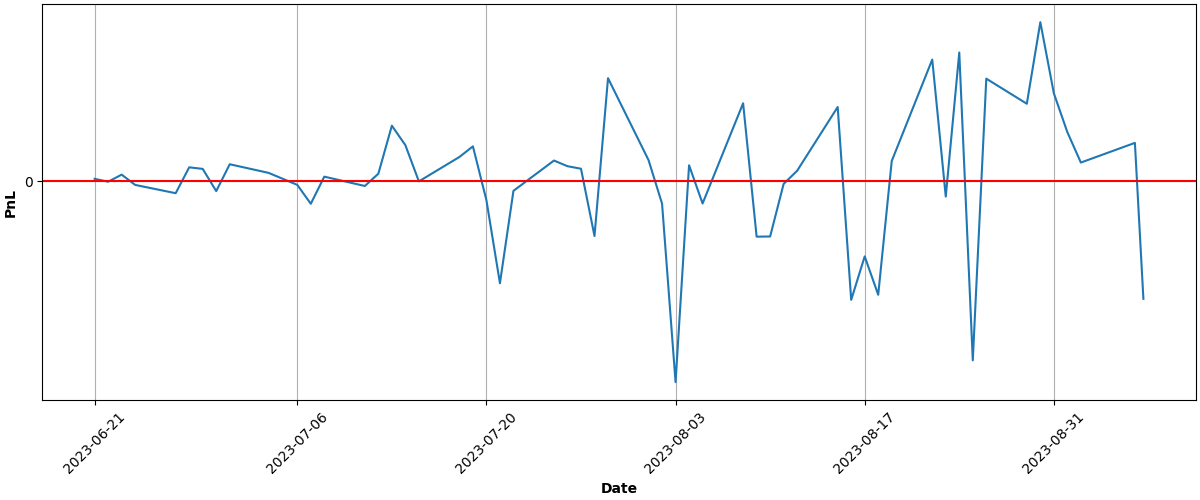
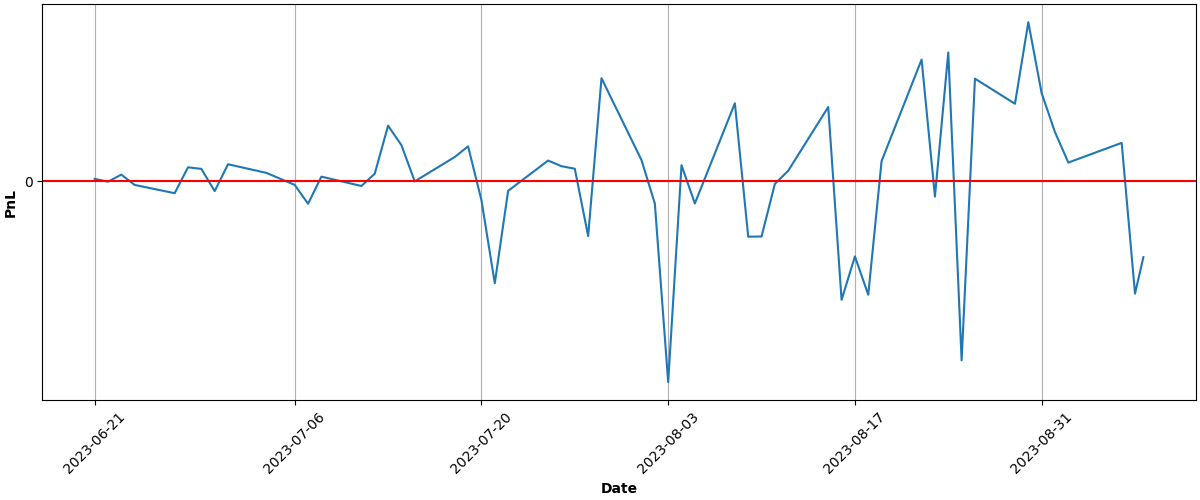
Automated Buy At Thu Sep  7 15:04:18 UTC 2023 Run ID 6111476865

diff --git a/README.md b/README.md
@@ -68,9 +68,9 @@ Results
 
 | Asset | Average Price | Current Price | ROI | 📈 |
 | --- | --- | --- | --- | --- |
-| FNGU | $182.300481149 | $179.7135 | -1.42% | &#128308;&#128546; |
-| SVIX | $27.942026087 | $30.68 | 9.80% | &#128994;&#128515; |
-| **Total** |  |  | **4.53%** | &#128994;&#128518; |
+| FNGU | $182.193750232 | $176.21 | -3.28% | &#128308;&#128546; |
+| SVIX | $28.031733333 | $30.09 | 7.34% | &#128994;&#128515; |
+| **Total** |  |  | **2.42%** | &#128994;&#128518; |
 
 ### PnL over time (calculations may not be accurate):
 
@@ -81,6 +81,6 @@ Results
 ---
 
 
-Updated at 2023-09-06 15:05:12
+Updated at 2023-09-07 15:04:36
 
 
